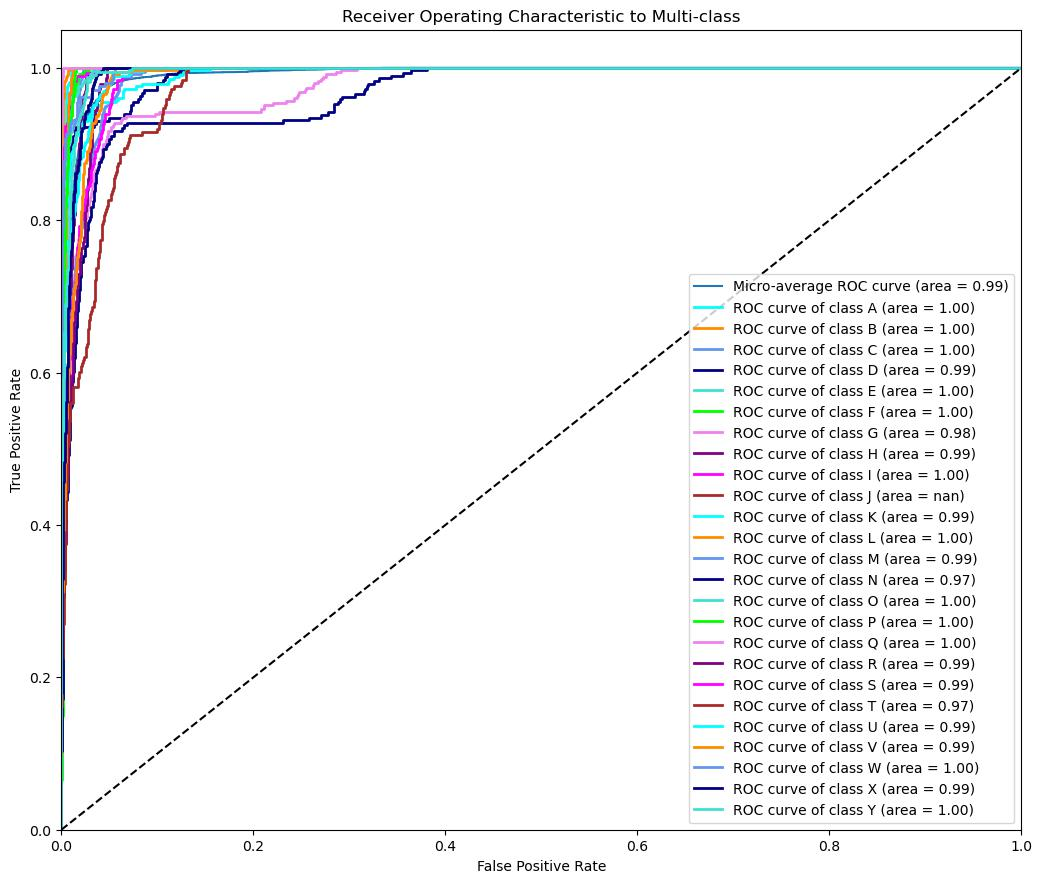
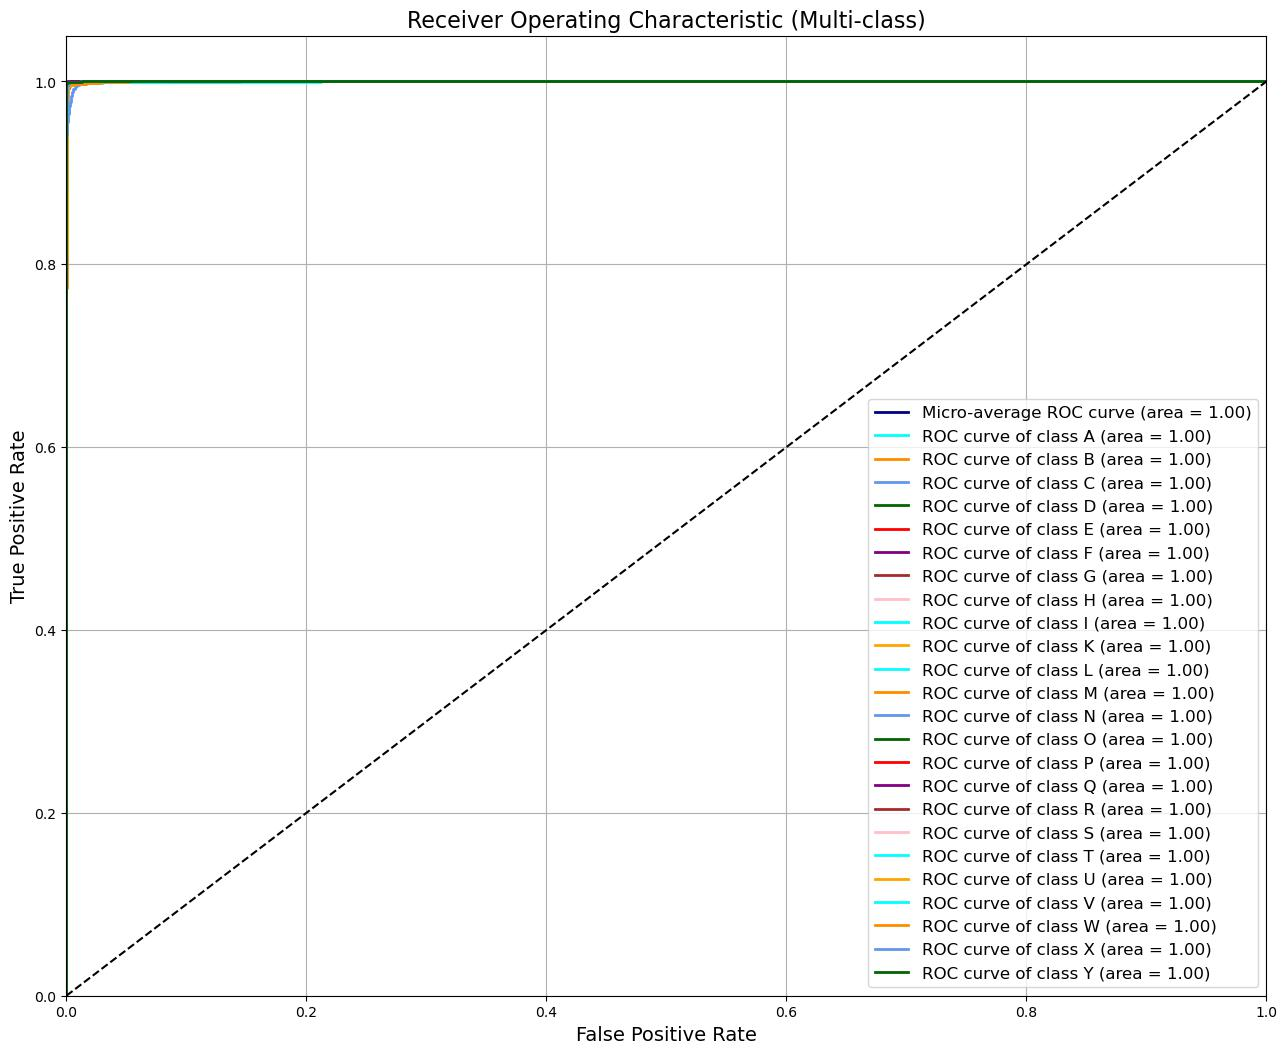
changed some varibale names, calculated metrics

diff --git a/src/metrics.py b/src/metrics.py
@@ -9,95 +9,67 @@ from sklearn.metrics import precision_score, recall_score, f1_score, confusion_m
 from sklearn.metrics import roc_auc_score, roc_curve, auc
 from sklearn.preprocessing import label_binarize
 from itertools import cycle
-from torchvision import transforms
 
-gestures_confusion_matrix = [
-    'A', 'B', 'C', 'D', 'E', 'F', 'G', 'H', 'I', 
-    'K', 'L', 'M', 'N', 'O', 'P', 'Q', 'R', 'S', 'T', 
+# Define the list of letter labels
+letters = [
+    'A', 'B', 'C', 'D', 'E', 'F', 'G', 'H', 'I',
+    'K', 'L', 'M', 'N', 'O', 'P', 'Q', 'R', 'S', 'T',
     'U', 'V', 'W', 'X', 'Y'
 ]
 
-gestures_roc_auc = [
-    'A', 'B', 'C', 'D', 'E', 'F', 'G', 'H', 'I', 'J', 
-    'K', 'L', 'M', 'N', 'O', 'P', 'Q', 'R', 'S', 'T', 
-    'U', 'V', 'W', 'X', 'Y'
-]
-
-# Load the dataset
-test_df = pd.read_csv('../resources/sign_mnist_test/sign_mnist_test.csv')
-
-# Split the data into features and labels
-X_test = test_df.iloc[:, 1:].values.reshape(-1, 28, 28).astype(np.float32)
-y_test = test_df.iloc[:, 0].values
-
-# Normalize the data
-X_test /= 255.0
-
-# Define a custom Dataset class
-class SignLanguageDataset(Dataset):
-    def __init__(self, images, labels, transform=None):
-        self.images = images
-        self.labels = labels
-        self.transform = transform
-
-    def __len__(self):
-        return len(self.images)
-
-    def __getitem__(self, idx):
-        image = self.images[idx]
-        label = self.labels[idx]
-        
-        if self.transform:
-            image = self.transform(image)
-        
-        return image, label
-class SignLanguageCNN(nn.Module):
-    def __init__(self):
-        super(SignLanguageCNN, self).__init__()
-        self.conv1 = nn.Conv2d(1, 32, kernel_size=3, padding=1)
-        self.conv2 = nn.Conv2d(32, 64, kernel_size=3, padding=1)
-        self.conv3 = nn.Conv2d(64, 128, kernel_size=3, padding=1)
-        self.pool = nn.MaxPool2d(kernel_size=2, stride=2, padding=0)
-        self.fc1 = nn.Linear(128 * 3 * 3, 256)
-        self.fc2 = nn.Linear(256, 128)
-        self.fc3 = nn.Linear(128, 25)  # 25 classes
+# Define the neural network model (MLP) for hand landmarks
+class HandGestureMLP(nn.Module):
+    def __init__(self, input_size=63, hidden_size=128, num_classes=24):
+        super(HandGestureMLP, self).__init__()
+        self.fc1 = nn.Linear(input_size, hidden_size)
+        self.fc2 = nn.Linear(hidden_size, hidden_size)
+        self.fc3 = nn.Linear(hidden_size, num_classes)
 
     def forward(self, x):
-        x = self.pool(F.relu(self.conv1(x)))
-        x = self.pool(F.relu(self.conv2(x)))
-        x = self.pool(F.relu(self.conv3(x)))
-        x = x.view(-1, 128 * 3 * 3)
         x = F.relu(self.fc1(x))
         x = F.relu(self.fc2(x))
         x = self.fc3(x)
         return x
 
-# Define data transforms
-transform = transforms.Compose([
-    transforms.ToPILImage(),
-    transforms.ToTensor(),
-    transforms.Normalize((0.5,), (0.5,))
-])
+# Load the dataset
+test_df = pd.read_csv('hand_landmarks_test.csv')
+
+# Split the data into features and labels
+X_test = test_df.iloc[:, 1:].values.astype(np.float32)
+y_test = test_df.iloc[:, 0].values
+
+# Load the LabelEncoder
+import joblib
+label_encoder = joblib.load('../resources/models/label_encoder_hand_landmark_model_1.pkl')
+num_classes = len(label_encoder.classes_)
+
+# Define a custom Dataset class
+class HandLandmarksDataset(Dataset):
+    def __init__(self, features, labels):
+        self.features = torch.tensor(features, dtype=torch.float32)
+        self.labels = torch.tensor(labels, dtype=torch.long)
+
+    def __len__(self):
+        return len(self.features)
+
+    def __getitem__(self, idx):
+        return self.features[idx], self.labels[idx]
 
 # Create the dataset and data loaders
-test_dataset = SignLanguageDataset(X_test, y_test, transform=transform)
-
+test_dataset = HandLandmarksDataset(X_test, y_test)
 test_loader = DataLoader(test_dataset, batch_size=64, shuffle=False)
 
 # Load model and switch it to evaluation mode
-model = SignLanguageCNN()
-model.load_state_dict(torch.load(f'../resources/models/model_6.pt', map_location=torch.device('cpu')))
+model = HandGestureMLP(input_size=X_test.shape[1], num_classes=num_classes)
+model.load_state_dict(torch.load(f'../resources/models/hand_landmark_model_1.pth', map_location=torch.device('cpu')))
 model.eval()
 
 all_labels = []
 all_predictions = []
 all_probabilities = []
-    
+
 device = torch.device('cpu')
 model.to(device)
-
-all_labels = []
-all_predictions = []
 
 correct = 0
 total = 0
@@ -105,11 +77,11 @@ total = 0
 # Disable gradient computation for evaluation
 with torch.no_grad():
     for data in test_loader:
-        inputs, labels = data
-        inputs, labels = inputs.to(device), labels.to(device)
+        features, labels = data
+        features, labels = features.to(device), labels.to(device)
         
         # Get model outputs
-        outputs = model(inputs)
+        outputs = model(features)
         
         # Convert outputs to predicted labels (multiclass classification)
         _, preds = torch.max(outputs, 1)
@@ -122,7 +94,7 @@ with torch.no_grad():
         all_labels.extend(labels.cpu().numpy())
         
         # Append outputs to get probability scores for ROC
-        all_probabilities.extend(outputs.cpu().numpy())
+        all_probabilities.extend(F.softmax(outputs, dim=1).cpu().numpy())
 
 # Calculate precision, recall, and F1-score using sklearn
 precision = precision_score(all_labels, all_predictions, average='macro')
@@ -139,23 +111,29 @@ print(f'F1-Score: {f1:.4f}')
 cm = confusion_matrix(all_labels, all_predictions)
 
 # Display and save the confusion matrix with letter labels
-plt.figure(figsize=(10, 8))
-disp = ConfusionMatrixDisplay(confusion_matrix=cm, display_labels=gestures_confusion_matrix)
-disp.plot(cmap=plt.cm.Blues, ax=plt.gca())
+plt.figure(figsize=(15, 12))  # Increase the figure size
+disp = ConfusionMatrixDisplay(confusion_matrix=cm, display_labels=letters)
+disp.plot(cmap=plt.cm.Blues, ax=plt.gca(), xticks_rotation='vertical')  # Rotate x-axis labels if needed
 plt.title('Confusion Matrix')
-plt.savefig('confusion_matrix.jpg', bbox_inches='tight')  # Save the confusion matrix as a JPG file
+
+# Adjust font sizes
+plt.xticks(fontsize=12)
+plt.yticks(fontsize=12)
+plt.xlabel('Predicted Label', fontsize=14)
+plt.ylabel('True Label', fontsize=14)
+
+plt.savefig('confusion_matrix.jpg', bbox_inches='tight')
 plt.show()
 
 # Binarize the labels for ROC calculation
-n_classes = 25
-y_test_bin = label_binarize(all_labels, classes=range(n_classes))
+y_test_bin = label_binarize(all_labels, classes=range(num_classes))
 y_score = np.array(all_probabilities)
 
 # Compute ROC curve and ROC area for each class
 fpr = dict()
 tpr = dict()
 roc_auc = dict()
-for i in range(n_classes):
+for i in range(num_classes):
     fpr[i], tpr[i], _ = roc_curve(y_test_bin[:, i], y_score[:, i])
     roc_auc[i] = auc(fpr[i], tpr[i])
 
@@ -164,19 +142,20 @@ fpr["micro"], tpr["micro"], _ = roc_curve(y_test_bin.ravel(), y_score.ravel())
 roc_auc["micro"] = auc(fpr["micro"], tpr["micro"])
 
 # Plot ROC curve with letter labels
-plt.figure(figsize=(12, 10))
-plt.plot(fpr["micro"], tpr["micro"], label='Micro-average ROC curve (area = {0:0.2f})'.format(roc_auc["micro"]))
-colors = cycle(['aqua', 'darkorange', 'cornflowerblue', 'navy', 'turquoise', 'lime', 'violet', 'purple', 'magenta', 'brown'])
-for i, color in zip(range(n_classes), colors):
-    plt.plot(fpr[i], tpr[i], color=color, lw=2, label='ROC curve of class {0} (area = {1:0.2f})'.format(gestures_roc_auc[i], roc_auc[i]))
+plt.figure(figsize=(15, 12))  # Increase the figure size
+plt.plot(fpr["micro"], tpr["micro"], label='Micro-average ROC curve (area = {0:0.2f})'.format(roc_auc["micro"]), color='navy', lw=2)
+colors = cycle(['aqua', 'darkorange', 'cornflowerblue', 'darkgreen', 'red', 'purple', 'brown', 'pink', 'cyan', 'orange'])
+for i, color in zip(range(num_classes), colors):
+    plt.plot(fpr[i], tpr[i], color=color, lw=2, label='ROC curve of class {0} (area = {1:0.2f})'.format(letters[i], roc_auc[i]))
 
 plt.plot([0, 1], [0, 1], 'k--')
 plt.xlim([0.0, 1.0])
 plt.ylim([0.0, 1.05])
-plt.xlabel('False Positive Rate')
-plt.ylabel('True Positive Rate')
-plt.title('Receiver Operating Characteristic to Multi-class')
-plt.legend(loc="lower right")
+plt.xlabel('False Positive Rate', fontsize=14)
+plt.ylabel('True Positive Rate', fontsize=14)
+plt.title('Receiver Operating Characteristic (Multi-class)', fontsize=16)
+plt.legend(loc="lower right", fontsize=12)
+plt.grid(True)  # Add grid lines for better readability
 plt.subplots_adjust(left=0.1, right=0.9, top=0.9, bottom=0.1)
-plt.savefig('roc_auc_curve.jpg', bbox_inches='tight')  # Save the ROC AUC curve as a JPG file
+plt.savefig('roc_auc_curve.jpg', bbox_inches='tight')
 plt.show()

diff --git a/src/landmark_tracking.py b/src/landmark_tracking.py
@@ -13,7 +13,7 @@ import warnings
 # Suppress specific warnings
 warnings.filterwarnings("ignore", category=UserWarning, module="google.protobuf")
 
-model_name = 'hand_landmark_model_1'
+model_version = 1
 word_list_name = "alphabet"
 
 def get_quadratic_bbox_coordinates_with_padding(handLandmark, image_shape, padding=15):
@@ -48,11 +48,11 @@ class HandGestureMLP(nn.Module):
 
 # Load the trained model
 model = HandGestureMLP(num_classes=24)
-model.load_state_dict(torch.load(f'../resources/models/{model_name}.pth', map_location=torch.device('cpu')))
+model.load_state_dict(torch.load(f'../resources/models/hand_landmark_model_{model_version}.pth', map_location=torch.device('cpu')))
 model.eval()
 
 # Load the LabelEncoder
-label_encoder = joblib.load(f'../resources/models/label_encoder_{model_name}.pkl')
+label_encoder = joblib.load(f'../resources/models/label_encoder_hand_landmark_model_{model_version}.pkl')
 
 # Define the gestures list based on LabelEncoder classes
 gestures = label_encoder.classes_.tolist()

diff --git a/src/training.py b/src/training.py
@@ -7,7 +7,7 @@ import torch.optim as optim
 import torch.nn.functional as F
 import joblib
 
-model_name = 'hand_landmark_model_2'
+model_version = 2
 
 # Dataset class to load the hand landmarks data from CSV
 class HandLandmarksDataset(Dataset):
@@ -69,7 +69,7 @@ criterion = nn.CrossEntropyLoss()
 optimizer = optim.Adam(model.parameters(), lr=0.001)
 
 # Training loop
-num_epochs = 20
+num_epochs = 200
 for epoch in range(num_epochs):
     model.train()
     total_loss = 0
@@ -118,7 +118,7 @@ for epoch in range(num_epochs):
 
 # Save the LabelEncoder
 label_encoder = dataset.get_label_encoder()
-joblib.dump(label_encoder, f'../resources/models/label_encoder_{model_name}.pkl')
+joblib.dump(label_encoder, f'../resources/models/label_encoder_hand_landmark_model_{model_version}.pkl')
 
 # Save the trained model
-torch.save(model.state_dict(), f'../resources/models/{model_name}.pth')
+torch.save(model.state_dict(), f'../resources/models/hand_landmark_model_{model_version}.pth')

diff --git a/src/label_counter.py b/src/label_counter.py
@@ -21,5 +21,5 @@ def count_labels(csv_file_path):
         print(f"Label {label}: {count}")
 
 # Example usage
-csv_file_path = 'hand_landmarks_train.csv'  # Replace with the path to your CSV file
+csv_file_path = 'hand_landmarks_test.csv'  # switch between train and test in name depending on what you want to count
 count_labels(csv_file_path)
